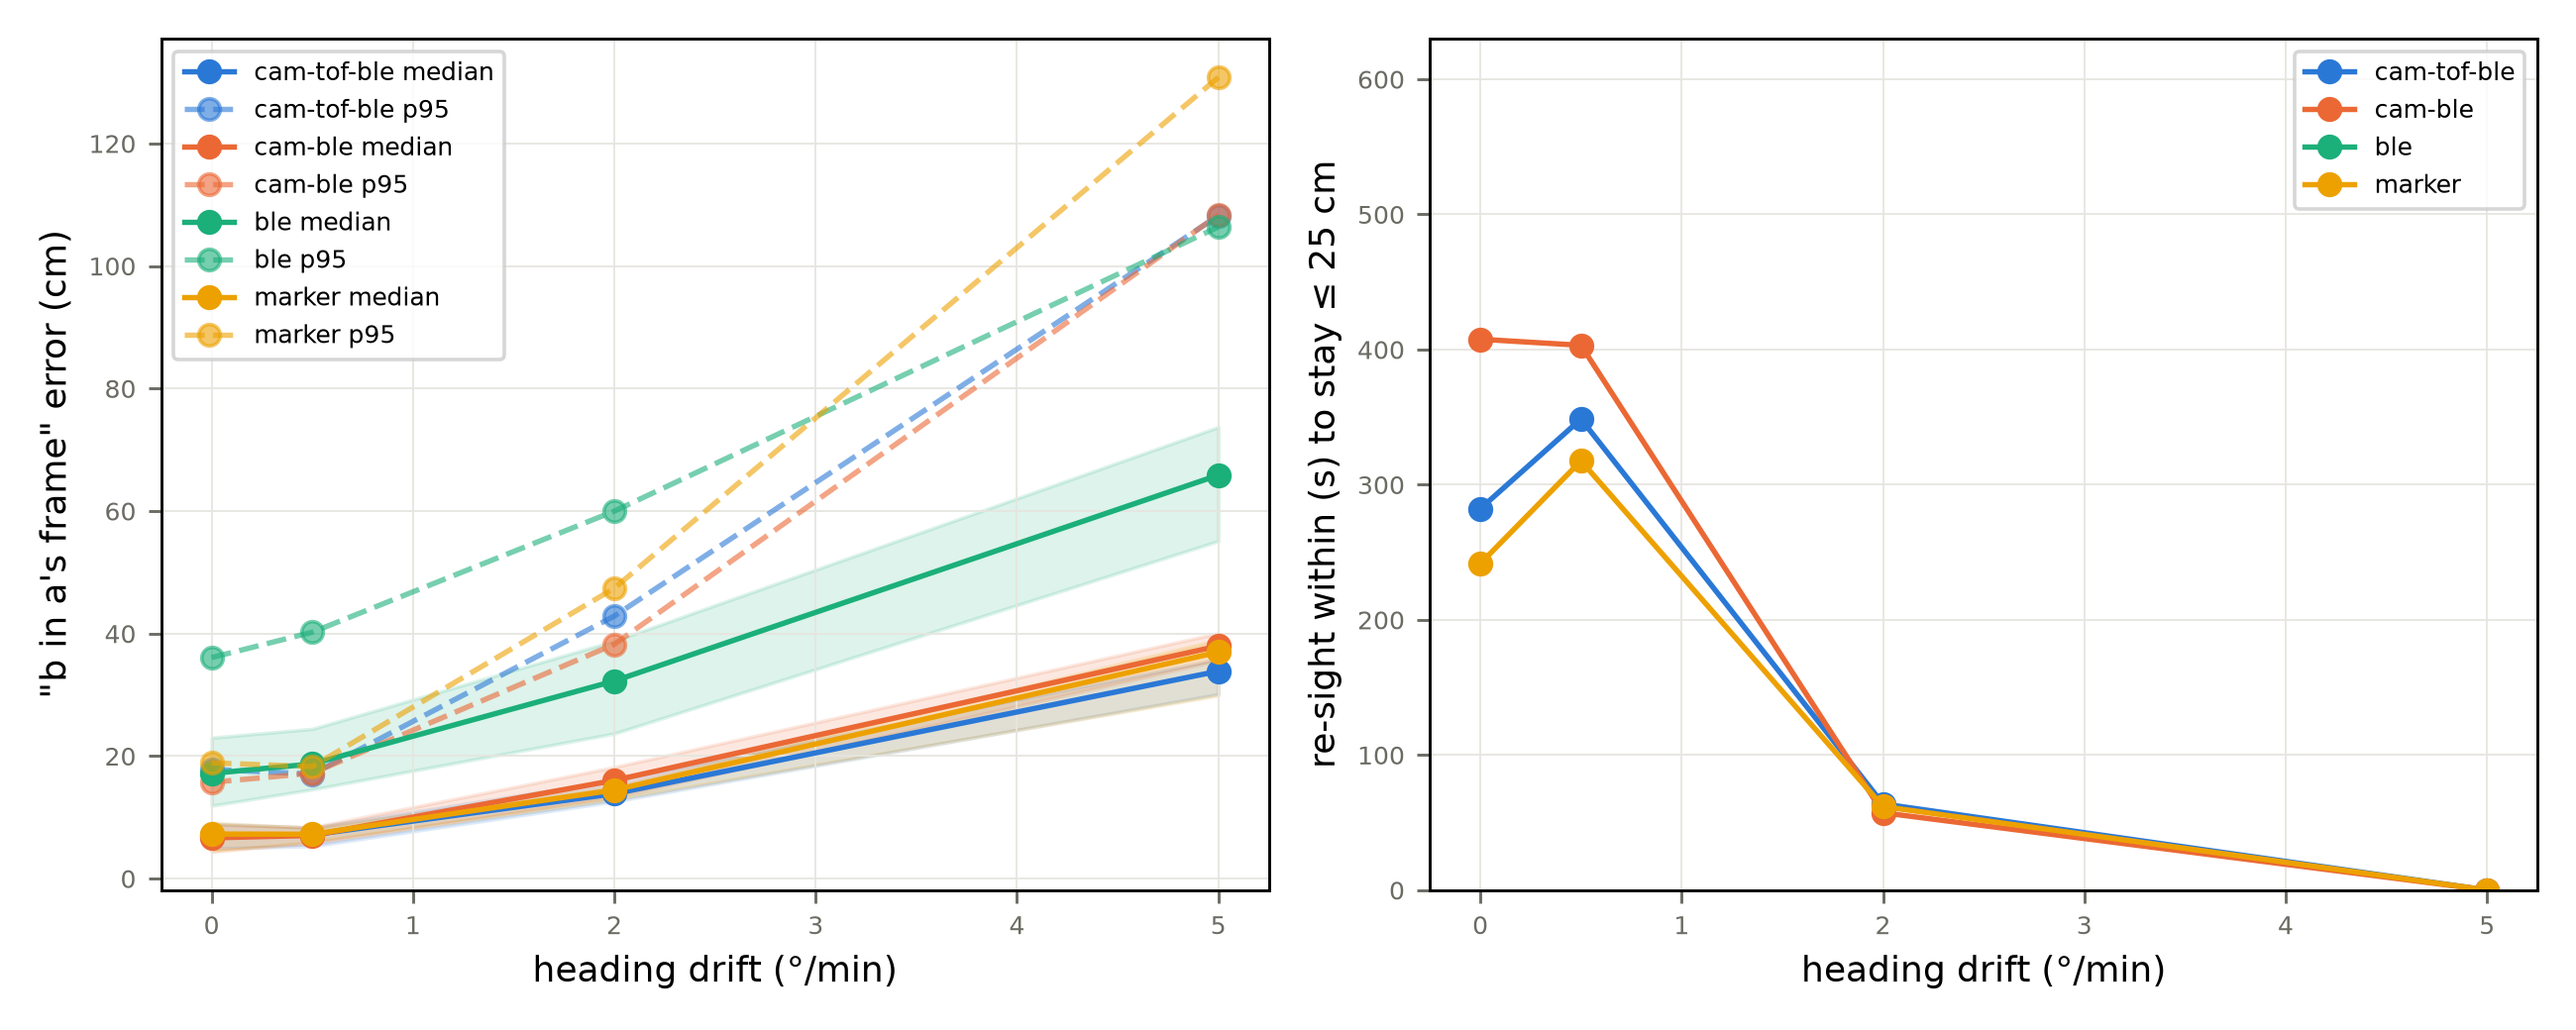
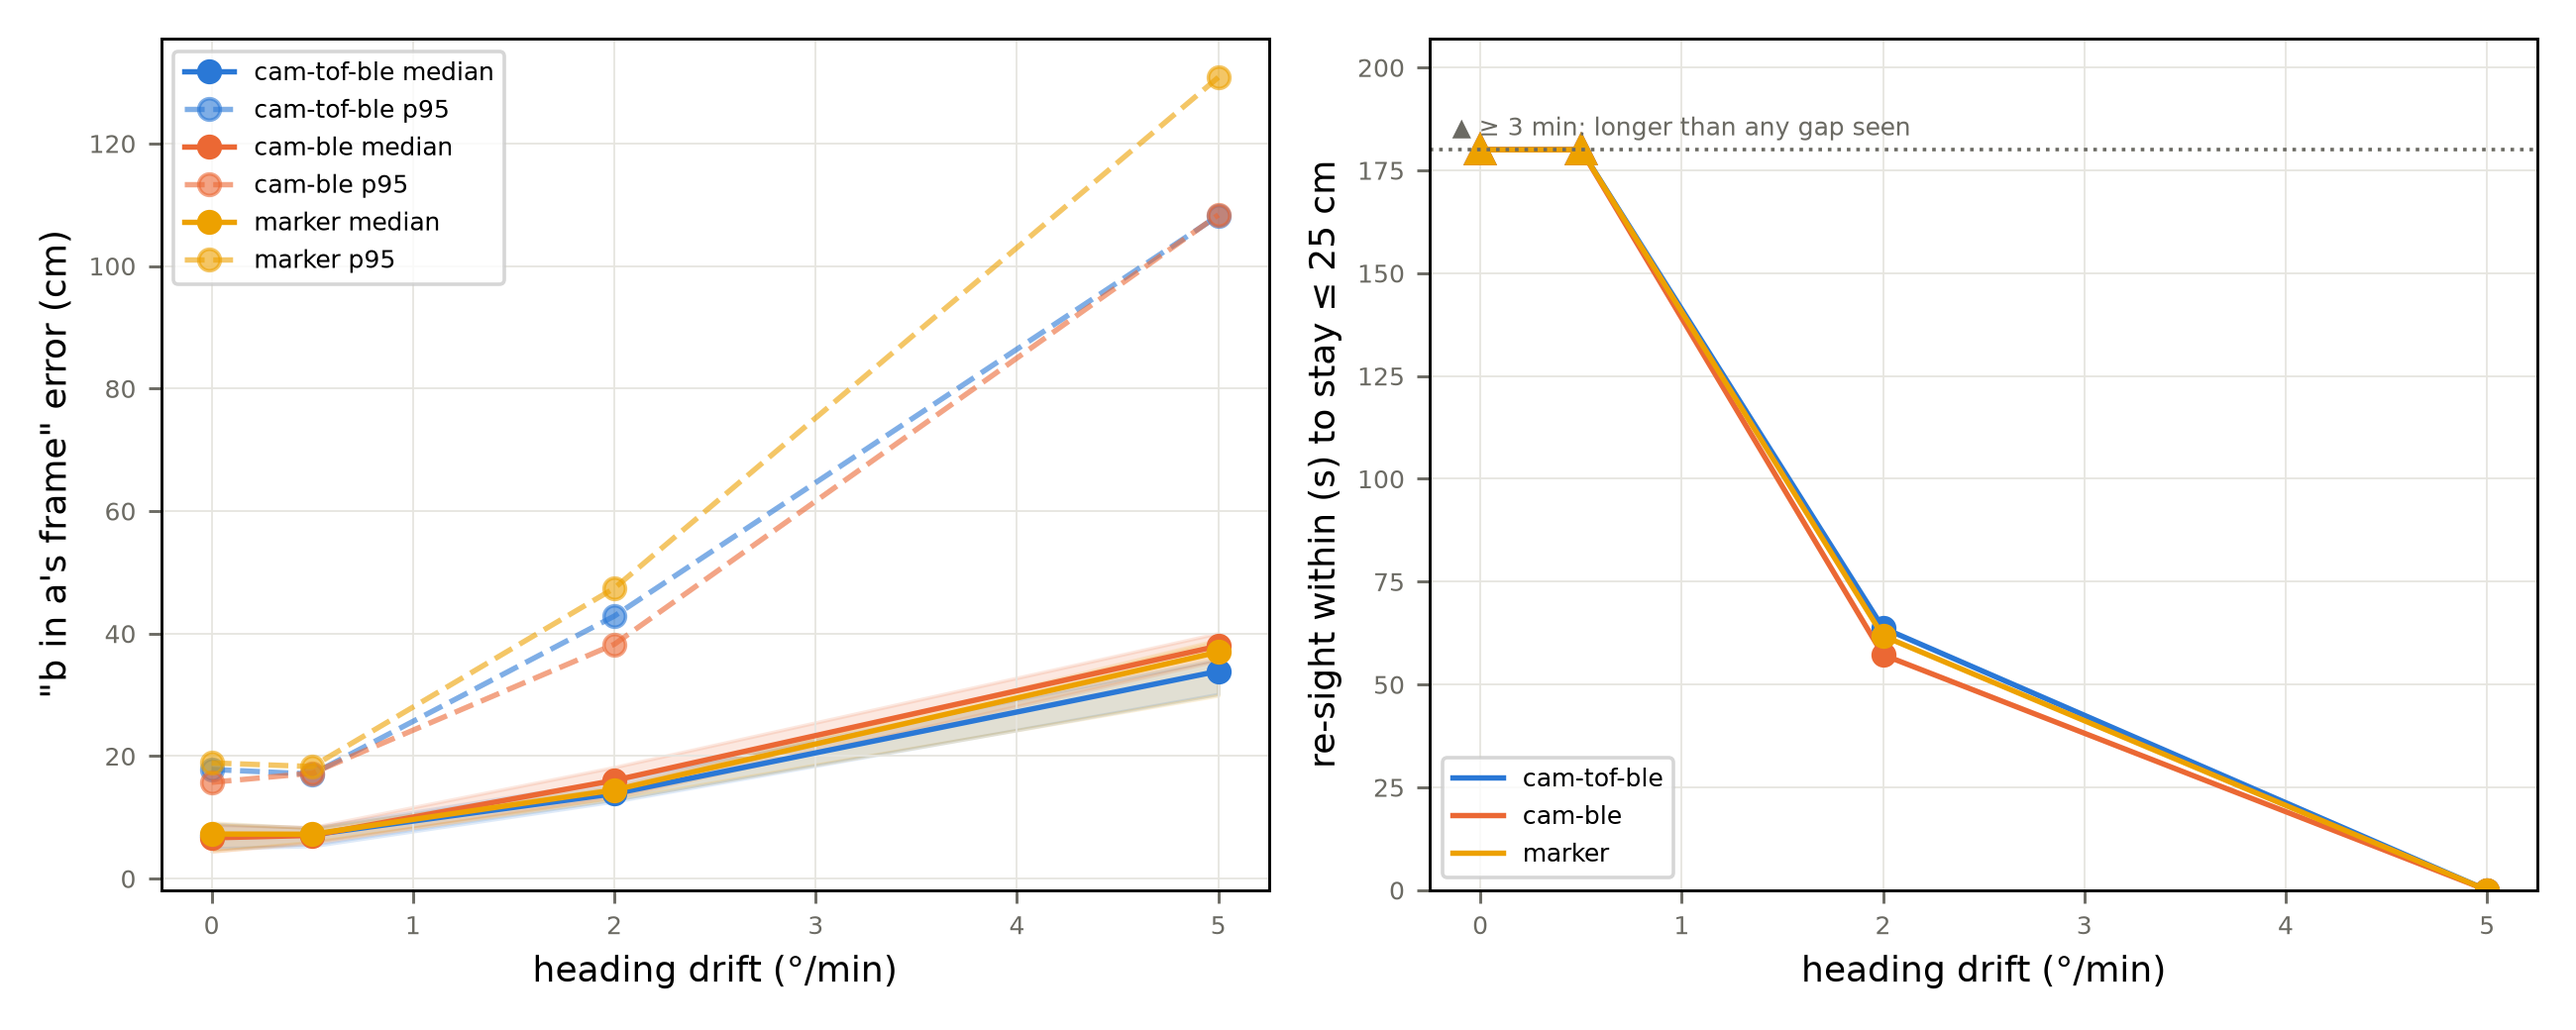
clarified exp results

diff --git a/examples/microduck_sil/sweep.py b/examples/microduck_sil/sweep.py
@@ -56,7 +56,6 @@ MAX_OFFSET_M = 20.0                   # no two boot frames in an 8×6 m flat are
 FIT_SIGMA_M, FIT_SIGMA_RAD = 0.10, math.radians(5.0)    # a pair fit's own 1σ, to be accepted
 AMBIGUOUS_M, AMBIGUOUS_RAD, AMBIGUOUS_CHI2 = 0.3, math.radians(10.0), 9.0   # a rival minimum this far off and this close in χ²
 GROWTH_MAX_S = 180.0                  # error-growth fit over gaps up to this
-RESIGHT_CAP_S = 600.0                 # plotted ceiling for "re-sight within" (no growth = never stale)
 PLOT_DPI = 260                        # 2× for docs/img
 SIGHTINGS_SCHEMA = pa.schema([("t_tai_ns", pa.int64()), ("observer", pa.string()), ("target", pa.string()),
                               ("range_m", pa.float64()), ("bearing_rad", pa.float64())])
@@ -438,6 +437,8 @@ def plots(results: dict, specs: dict):
     for axis, per in sc.SWEEP_AXES.items():
         fig, (ax1, ax2) = plt.subplots(1, 2, figsize=(10, 4))
         for d, (key, values, _) in per.items():
+            if sc.DESIGNS[d]["kind"] != "cam":     # BLE alone rarely has an estimate (see the table)
+                continue
             xs, rs = [], []
             for i, v in enumerate(values):
                 did = f"{d}-base" if v == sc.DESIGNS[d][key] else f"{d}-{per[d][2]}{v:g}"
@@ -450,8 +451,14 @@ def plots(results: dict, specs: dict):
             ax1.plot(xs, col("median") * 100, "o-", color=colour[d], label=f"{d} median")
             ax1.fill_between(xs, col("median_lo") * 100, col("median_hi") * 100, color=colour[d], alpha=0.15)
             ax1.plot(xs, col("p95") * 100, "o--", color=colour[d], alpha=0.6, label=f"{d} p95")
-            resight = np.minimum(col("resight_s"), RESIGHT_CAP_S)
-            ax2.plot(xs, resight, "o-", color=colour[d], label=d)
+            # Re-sight comes from a line fitted over gaps up to GROWTH_MAX_S; longer is extrapolation,
+            # so it is drawn at the cap with ▲.
+            resight = col("resight_s")
+            over = resight > GROWTH_MAX_S
+            shown = np.minimum(resight, GROWTH_MAX_S)
+            ax2.plot(xs, shown, "-", color=colour[d], label=d)
+            ax2.plot(np.array(xs)[~over], shown[~over], "o", color=colour[d])
+            ax2.plot(np.array(xs)[over], shown[over], "^", color=colour[d], markersize=8)
         for ax in (ax1, ax2):
             style(ax)
             ax.set_xlabel(labels[axis])
@@ -460,7 +467,11 @@ def plots(results: dict, specs: dict):
                 ax.set_xticks([0, 1, 2], ["low", "baseline", "high"])
         ax1.set_ylabel('"b in a\'s frame" error (cm)')
         ax2.set_ylabel(f"re-sight within (s) to stay ≤ {sc.STALE_M * 100:.0f} cm")
-        ax2.set_ylim(0, RESIGHT_CAP_S * 1.05)
+        ax2.axhline(GROWTH_MAX_S, color="#6b6a63", lw=1, ls=":")
+        ax2.annotate(f"▲ ≥ {GROWTH_MAX_S / 60:.0f} min: longer than any gap seen", (0.02, GROWTH_MAX_S),
+                     xycoords=("axes fraction", "data"), xytext=(0, 4), textcoords="offset points",
+                     fontsize=7, color="#6b6a63")
+        ax2.set_ylim(0, GROWTH_MAX_S * 1.15)
         ax1.legend(fontsize=7)
         ax2.legend(fontsize=7)
         fig.tight_layout()

diff --git a/examples/microduck_sil/scenario.py b/examples/microduck_sil/scenario.py
@@ -108,7 +108,7 @@ DESIGNS = {
 _CAMS = ("cam-tof-ble", "cam-ble", "marker")
 SWEEP_AXES = {
     "range": {d: ("r50", (1.0, 2.0, 3.0), "range") for d in _CAMS},
-    "fov": {d: ("fov", (45.0, 90.0, 160.0), "fov") for d in _CAMS},
+    "fov": {d: ("fov", (45.0, 62.0, 90.0, 160.0), "fov") for d in _CAMS},   # 62°: the IMX219 head camera
     "rate": {**{d: ("hz", (0.5, 2.0, 10.0), "hz") for d in _CAMS}, "ble": ("hz", (0.5, 1.0, 5.0), "hz")},
     "noise": {"cam-tof-ble": ("bearing", (1.0, 2.0, 5.0), "bearing"), "cam-ble": ("bearing", (1.0, 2.0, 5.0), "bearing"),
               "marker": ("k", (0.01, 0.02, 0.05), "k"), "ble": ("sigma", (0.5, 1.0, 2.0), "sigma")},

diff --git a/examples/microduck_sil/docs/detector_requirements.md b/examples/microduck_sil/docs/detector_requirements.md
@@ -1,9 +1,15 @@
 # What does a microduck need to know where its friends are?
 
+**Heading drift matters more than the detector. Any camera design gets ~7 cm. At 2°/min a follower
+must re-sight its leader every minute.**
+
 Microduck's social behaviours (greeting, follow-the-leader) need an answer for "where is duck b in my frame?". Each
 duck's odometry starts in the pose from where it was booted, with no magnetometer to tie headings together, so
 something has to sense the other ducks. Pollen's digital twin as software-in-the-loop within Soloc to 
-perform an initial detector requirements study.
+perform an initial detector requirements study. It tests the camera = direction, ToF = distance,
+BLE = identity split from the fusion note in
+[`docs/ideas/autonomous_behavior.md`](https://github.com/pollen-robotics/microduck/blob/a360b3843bb49fd48a635b39eabcb835d9fffecb/docs/ideas/autonomous_behavior.md#duck-detector-camera--npu--wanted-waiting-on-mediad),
+and adds a heading-drift budget.
 
 ![duck-c keeps duck-d in view: each ray is one sighting](img/spotting.webp)
 
@@ -19,7 +25,7 @@ own odometry frame.*
 - Afterwards, the recording is replayed through the scene to find, at each moment, which pairs had
   a clear line of sight and whether one duck's VL53L5CX zones (`tof.py` model) landed on the
   other duck
-- Four detector designs were considered. Parameters were: range, field of view, rate, noise & heading drift. 44 designs × 10 noise seeds × 2 runs in total were simulated. Each duck's frame is fitted into a lookout's from sightings, and "b in a's frame" is scored against truth every second
+- Four detector designs were considered. Parameters were: range, field of view, rate, noise & heading drift. 47 designs × 10 noise seeds × 2 runs in total were simulated. Each duck's frame is fitted into a lookout's from sightings, and "b in a's frame" is scored against truth every second
 
 ## Findings
 
@@ -30,12 +36,12 @@ own odometry frame.*
 | Camera + marker on each duck | 7 cm | 18 cm | 82% | 80 s |
 | BLE RSSI only (σ 1 m) | — | — | 7% | never |
 
-1. **Heading drift defines accuracy.** At 0.5°/min a duck can go ~5 min unseen and
+1. **Heading drift defines accuracy.** At 0.5°/min a duck can go over 3 min unseen and
    stay within 25 cm of truth. At 2°/min that drops to about a minute (median 14–16 cm, p95 ~45 cm). At
    5°/min it never stays within 25 cm
 2. **Any camera-based design gives ~7 cm.** Range, field of view, rate and noise mostly change how
-   soon and how often there is an estimate. A wide view (90–160°) plus any range source reaches
-   90% coverage with everyone aligned in 30–40 s; bearing-only stays at 77–79%. However as real camera with that FOV may cause reduction in detection instances
+   soon and how often there is an estimate. A wider view (62–160°) plus any range source reaches
+   87–92% coverage with everyone aligned in 30–40 s; bearing-only stays at 73–79%. However as real camera with that FOV may cause reduction in detection instances
 3. **BLE RSSI alone can't resolve frames** Using BLE for identity instead of pose determination makes more sense
 
 ![error and re-sight interval vs heading drift](img/sweep_drift.png)
@@ -85,7 +91,7 @@ they are (median 6 cm, accounting for simulated detection noise).
 What worked surprisingly well:
 - Surprisingly seamless when running as a software-in-the-loop sim
 - Raw measurements stay in the frame they were taken in, next to the twin's truth, so scoring a design is a query
-- One twin recording fed all 44 designs; each design's ledger merges with the others for side-by-side analysis
+- One twin recording fed all 47 designs; each design's ledger merges with the others for side-by-side analysis
 
 What the Soloc team should focus on as next features:
 - Querying entity-to-entity transforms directly ("b in a's frame" currently goes through Earth-fixed coordinates) would be very helpful as originally expected
